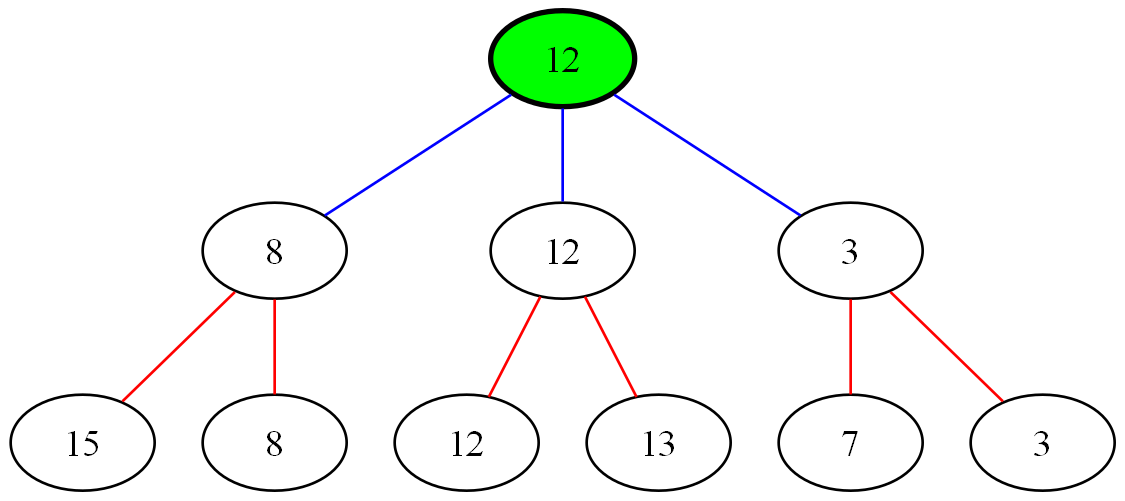
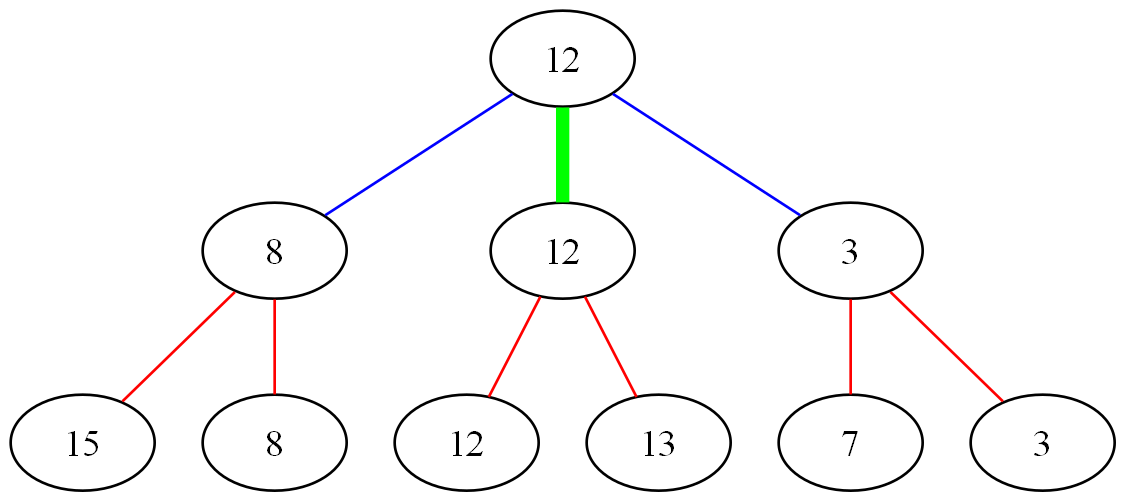
Fix duplicate image

Changed region(s): [[0.4356, 0.0, 0.5911, 0.4192]]

diff --git a/minimax.py b/minimax.py
@@ -117,9 +117,6 @@ def main():
     minimax.select("r")
     minimax.visualize_graph_sequential("minimax")
 
-    minimax.set_value("r", 12)
-    minimax.visualize_graph_sequential("minimax")
-
     minimax.select(None)
     minimax.select_edge("r", "b")
     minimax.visualize_graph_sequential("minimax")
